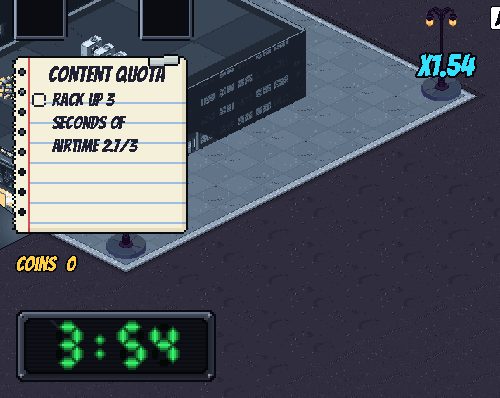
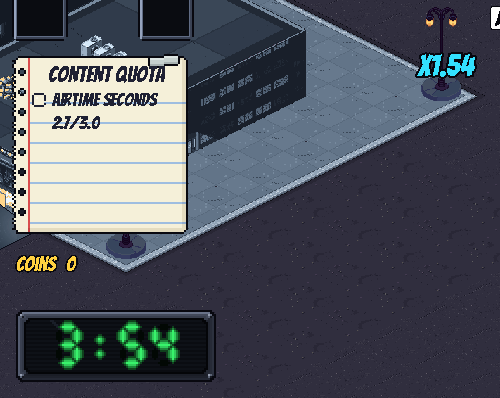
T-565: use T-564's texts for the running totals; GIF re-recorded
Claude-Session: https://claude.ai/code/session_01N2d996YFpSovFyvGmo19CZ

Changed region(s): [[0.09, 0.2111, 0.33, 0.392]]

diff --git a/docs/game-loop-architecture.md b/docs/game-loop-architecture.md
@@ -230,7 +230,7 @@ The run keeps its missions and the car's driving power-ups (Decisions, "Mission 
 - **One mission at a time:** every goal of the current mission counts at once; when all are done the mission is completed and the next one is current.
 - **What counts:** the car's tricks as the combo gets them (alt drifts, 360s, air 180s and 360s, thread the needle), every landing's airtime added up (also a hop too short to raise the combo), and, for the drift goal, **one unbroken drift**: it is ticked off the moment the drift reaches its seconds, and a drift that ends, by letting go or hitting something, starts over from 0. How tricks pay in the combo and likes does not change.
 - **Signals** for the HUD page and the gift overlay: a goal's progress (done out of total), a goal completed, a mission completed, and a mission started.
-- **Running totals (T-565; Decisions, "Total-time mission goals show their running total"):** a seconds goal that adds time up (the airtime: each landing adds its seconds) sends its total with each progress signal, and the notebook shows it against the goal ("1.4/3", one decimal, cut down so it never reads its goal early; HUD and menus, Content, "Running totals in the notebook"). The landing's name box falls first and the total changes when it lands (T-563). The unbroken drift goal is unchanged: no total, it starts over when a drift ends. Time can also be added a little at a time with no name box (`RunMissions.add_seconds`, used by the tutorial's drift slide); no run goal uses it yet.
+- **Running totals (T-565; Decisions, "Total-time mission goals show their running total"):** a seconds goal that adds time up (the airtime: each landing adds its seconds) sends its total with each progress signal, and the notebook shows it against the goal ("1.4/3.0", one decimal, cut down so it never reads its goal early; HUD and menus, Content, "Running totals in the notebook"). The landing's name box falls first and the total changes when it lands (T-563). The unbroken drift goal is unchanged: no total, it starts over when a drift ends. Time can also be added a little at a time with no name box (`RunMissions.add_seconds`, used by the tutorial's drift slide); no run goal uses it yet.
 - **The car's driving power-ups:** the run keeps which power-ups the car owns and at which tier (0 = not owned); a gift gives a new one at tier 1 or the next tier of one owned, never past its last tier; a signal fires when they change; a new run clears them.
 - **The gift's pause (T-459):** a completed mission pauses the run for the driving power-up overlay, like the level-up's weapon choice, and taking a power-up resumes it. The two never show at once: whichever opens second waits for the first to close, and the run stays paused between them; a gift with nothing left to offer is skipped without a pause. The rules and the look: HUD and menus, Content, "Power-up overlay".
 - **Jump is offered first (T-554):** `PowerUpOffers` counts the gifts that open in a run (`gifts_opened`, reset at every run start; a skipped gift doesn't count). While fewer than 2 have opened and the car doesn't own Jump, Jump is always one of the gift's 2 choices (`FIRST_OFFER_ID`, `FIRST_OFFER_GIFTS`), the other drawn at random from the usual pool. If Jump was taken on the first gift, the second follows the usual rules; from the third gift on, all rules are usual. The slot caps still apply: with 3 power-ups owned (none Jump) Jump is not in the pool, so it is not offered.
@@ -241,7 +241,7 @@ The run keeps its missions and the car's driving power-ups (Decisions, "Mission 
 The engine of the tutorial's practice windows (HUD and menus, Decisions, "Interactive tutorial slides"; how to use it: [game/docs/game-loop/practice-session.md](../game/docs/game-loop/practice-session.md)). Each trick slide (T-562) embeds one in its window. It is a small live run with one goal, not a run: it is never part of the screen flow below and never ends.
 
 - **What is in it:** the practice playground (Level design, Decisions, "The practice playground", T-560's level, on its grid ground), the real car with its real driving, combo, trick popups, drift marks and smoke, and the real mission notebook inside the window. **Nothing else:** no enemies, kaiju, clock, damage, gift packs, weapons, HUD or sounds.
-- **One trick, 3 times; the drift, 3 seconds:** the slide sets it to the drift, the alt drift, air spins or the grind. The notebook shows one goal, the trick 3 times ("x/3"), and the count. **The drift slide (T-565, HUD and menus, Decisions, "The drift slide counts drift seconds")** counts time instead: every moment the car drifts adds to one total over all its drifts (also drifts too short to pay), the notebook shows the total live with one decimal ("1.4/3"), and the goal is done at **3 seconds in total**; no trick counts there, LONG DRIFT! included. For the other slides a trick counts when it pays in the combo, the moment its popup shows: the alt drift ALT DRIFT!, air spins AIR 180! or AIR 360! (one landing counts once, also a 540 that pays both), the grind GRIND!. Nothing else counts. On the third (the drift: at 3 s) the slide is told, and shows its success message over the window; the count then stays at 3 (the drift's total at 3 s) and the player can keep driving (proposals).
+- **One trick, 3 times; the drift, 3 seconds:** the slide sets it to the drift, the alt drift, air spins or the grind. The notebook shows one goal, the trick 3 times ("x/3"), and the count. **The drift slide (T-565, HUD and menus, Decisions, "The drift slide counts drift seconds")** counts time instead: every moment the car drifts adds to one total over all its drifts (also drifts too short to pay), the notebook shows the total live with one decimal ("1.4/3.0"), and the goal is done at **3 seconds in total**; no trick counts there, LONG DRIFT! included. For the other slides a trick counts when it pays in the combo, the moment its popup shows: the alt drift ALT DRIFT!, air spins AIR 180! or AIR 360! (one landing counts once, also a 540 that pays both), the grind GRIND!. Nothing else counts. On the third (the drift: at 3 s) the slide is told, and shows its success message over the window; the count then stays at 3 (the drift's total at 3 s) and the player can keep driving (proposals).
 - **The grind's Jump gift:** the grind practice starts by offering the real power-up gift overlay with one card, Jump; taking it gives the car Jump. The practice waits behind it.
 - **Start points and resets:** the car starts on the playground's start point for its trick (one per trick slide, T-560). It goes back there when it leaves the playground, or when the player presses **R** (a proposal); the count stays.
 - **Keys and pausing:** the car reads the keyboard only while its window has focus; without focus it coasts as with no key held. The practice runs only while its slide shows it, and pauses only itself, never the game around it, so the slide's arrows and buttons keep working (also while the Jump gift is open).

diff --git a/docs/hud-and-menus.md b/docs/hud-and-menus.md
@@ -146,7 +146,7 @@ The first piece of the HUD (task T-090) is the run timer. It shows the time left
 
 **A trick falls into the notebook (task T-563; Decisions, "A trick falls into the notebook").** When a trick counts toward a goal of the current mission (`RunMissions.trick_counted`, sent just before that goal's progress), a small paper box with the trick's popup name ("ALT DRIFT!", "AIR 360!", "GRIND!"; the popup texts of `TrickPopups.TEXTS`, no new text) drops from above the page's top onto that goal's line, squashes, and splashes (a fan of seven blue droplets); the count, the tick and the next mission appear only when the box lands. A trick that counts toward no goal plays nothing. Drawn in code in the notebook's pixel look, no PixelLab art; the same page serves the tutorial's practice windows. Proposals for the playtest: the fall takes 0.32 s (it speeds up as it falls), the splash 0.28 s, the squash 0.07 s; quick tricks queue, a new box starting at least 0.14 s after the last one so none sits on another and each count arrives in order; at most four boxes wait, a trick in a bigger burst only updates the count. A mission completed by a trick shows its last box before the next page replaces it. How it is built: `MissionPage` (`game/scripts/hud/mission_page.gd`, `advance`, `finish_falls`), recorded with `game/tools/record_notebook_fall_gif.sh`. Recording: `art-archive/T-563/screenshots/notebook_fall.gif`.
 
-**Running totals in the notebook (task T-565; Decisions, "The drift slide counts drift seconds"; Game loop architecture, Decisions, "Total-time mission goals show their running total").** A goal that adds time up shows its total so far against its goal, like a quantity goal's count: in the run the airtime goal (each landing adds its seconds), in the tutorial the drift slide's 3 seconds of drifting in total. The seconds show with **one decimal, cut down** (2.96 s reads 2.9, so the line never shows its goal before the goal is done), against the goal's own number ("1.4/3"); at the goal the line is ticked and crossed off as usual. The unbroken drift goal ("Hold one drift for ...") keeps its line with no count. The line is T-564's text (`missions.goals_total.<trick>` in `screen_texts.json`, and the drift slide's seconds line in `tutorial_text.json`; until those are in, the goal's usual line shows, and the drift slide's "Drifts {done}/{total}" line with the seconds in it). **The falling name box with time goals** (proposals for the playtest): a trick that adds a lump of seconds drops its box as before (a landing: HANG TIME!), and the total changes when the box lands; time added a little at a time, the drift slide's drifting every frame, drops **no box**, and the total grows live while the car drifts. How it is built: `MissionPage.goal_template`, `fill` and `format_seconds`, `RunMissions.add_seconds` and `is_running_total`. Recording: `art-archive/T-565/screenshots/running_totals.gif` (`game/tools/record_running_total_gif.sh`).
+**Running totals in the notebook (task T-565; Decisions, "The drift slide counts drift seconds"; Game loop architecture, Decisions, "Total-time mission goals show their running total").** A goal that adds time up shows its total so far against its goal, like a quantity goal's count: in the run the airtime goal (each landing adds its seconds), in the tutorial the drift slide's 3 seconds of drifting in total. The seconds show with **one decimal, cut down** (2.96 s reads 2.9, so the line never shows its goal before the goal is done), against the goal, also with one decimal ("1.4/3.0"); at the goal the line is ticked and crossed off as usual. The unbroken drift goal ("Hold one drift for ...") keeps its line with no count. The lines are T-564's texts: in the run `missions.total_seconds` with the goal's `{name}` from `missions.total_seconds_names.<trick>` ("Airtime seconds 2.7/3.0"; a seconds goal without a name there keeps its usual line), on the drift slide `tutorial.goal.drift` ("Drift seconds 1.5/3.0"). **The falling name box with time goals** (proposals for the playtest): a trick that adds a lump of seconds drops its box as before (a landing: HANG TIME!), and the total changes when the box lands; time added a little at a time, the drift slide's drifting every frame, drops **no box**, and the total grows live while the car drifts. How it is built: `MissionPage.goal_template`, `fill` and `format_seconds`, `RunMissions.add_seconds` and `is_running_total`. Recording: `art-archive/T-565/screenshots/running_totals.gif` (`game/tools/record_running_total_gif.sh`).
 
 **The kaiju's health bar (task T-050, decision of 2026-10-15 below):** a bar on top of the kaiju in the world, following it. It is hidden until the kaiju appears, shows its health (it follows the run's kaiju health signal) and disappears when the kaiju dies or a new run starts. It is as wide as the kaiju's drawing (the width comes from the kaiju's sprite, so the final art keeps it fitting) and sits just above its head. It is a neon purple fill on a white background with a black outline (stepped pixel corners, as in the combo popups) and thin black dividers at every 10% of its health; hard pixel edges, drawn in code, no text and no red. It always draws above every building, as the trick popups do. How it is built is in `game/docs/enemies/kaiju.md`, "The kaiju's health bar". The arrow to the nearest challenge is not in the MVP (T-098). The HUD stays clear of the trick popups (near the car) and the pause strip (below the timer); while paused, the strip's dark band runs across the whole width over the lower part of the health bar.
 

diff --git a/tasks/T-565-drift-seconds-running-totals.md b/tasks/T-565-drift-seconds-running-totals.md
@@ -83,3 +83,5 @@ Tests: the new game/tests/unit/hud/test_mission_page_running_total.gd (8 tests: 
 GIF: art-archive/T-565/screenshots/running_totals.gif (fixture tests/fixtures/running_total_demo.tscn, recorder game/tools/record_running_total_gif.sh). Part 1: the real car on the drift slide drifts, straightens, drifts again; the line goes 0.5, 1.5, 2.4 and stops at 3.0/3, ticked and crossed off. Part 2: a run with an airtime 3 s mission; three landings (0.9, 1.3, 0.5) drop HANG TIME! boxes and the line goes 0.9, 2.2, 2.7/3. Since T-564 is not in yet, part 2 uses a fixture-only stand-in line (the usual airtime line with {done}/{total} after it). Stills: drift_slide_3s_done.png, run_airtime_total.png. practice_session_demo.gd now uses add_drift_seconds.
 
 Docs: docs/hud-and-menus.md (Content, The HUD: new paragraph 'Running totals in the notebook'; The interactive slides: the drift's 3 s), docs/game-loop-architecture.md (Content, Missions in the run: Running totals; The practice session: the drift counts 3 s), game/docs/game-loop/practice-session.md, game/docs/game-loop/the-run.md.
+
+Update after T-564 was merged (2026-11-07): the seams now use T-564's keys. PracticeSession.DRIFT_SECONDS_TEXT_KEYS = tutorial.goal.drift (T-564 rewrote it in place: 'Drift seconds {done}/{total}'). MissionPage.TOTAL_GOALS_KEY = total_seconds (the one template '{name} seconds {done}/{total}'). New MissionPage.TOTAL_NAMES_KEY = total_seconds_names, which gives the {name} per trick (airtime: 'Airtime'); a seconds goal without a name keeps its usual missions.goals line. For a running total, {total} now shows one decimal too, as T-564's comments ask ('Airtime seconds 2.7/3.0', 'Drift seconds 3.0/3.0'). The fixture's stand-in line is gone. Tests for the changed code: test_mission_page_running_total 9/9 (now checks the real total_seconds line), test_practice_session 28/28, test_tutorial* 57/57, test_hud_mission_page 11/11, every mission* test passes (56). game/tools/test_text_inventory.py: 8 passed. The inventory finds no code text in mission_page.gd, practice_session.gd or missions.gd. GIF re-recorded with the real texts: art-archive/T-565/screenshots/running_totals.gif. The drift slide goes 1.5, 2.1, then 3.0/3.0, ticked; the run's airtime goes 0.9, 2.2, then 2.7/3.0. Stills updated: drift_slide_3s_done.png, run_airtime_total.png. Docs updated: hud-and-menus.md, game-loop-architecture.md, game/docs/game-loop/practice-session.md and the-run.md. A hook refused an 'rm -rf' of my own scratchpad frames folder (it guards tickets); I didn't retry it and recorded to a new folder instead.

diff --git a/game/docs/game-loop/the-run.md b/game/docs/game-loop/the-run.md
@@ -187,7 +187,7 @@ Indices are 0-based (mission_index 0 is mission 1; goal_index 0 is its first goa
 **What feeds it** (only while the run is going; `RunState` forwards, how tricks pay is unchanged):
 
 - `add_trick(trick_id, seconds)` → `missions.on_trick()`: a "count" goal for that trick adds 1; the drift's "seconds" goal (`extended_drift`) takes the paid drift's whole length.
-- `add_airtime_trick(seconds)` → `missions.on_airtime()`: every landing, also one too short to pay in the combo; an `airtime` "seconds" goal adds the seconds up ("3 seconds of airtime in total"). Such a goal is a running total (`RunMissions.is_running_total(trick, kind)`: kind "seconds", not `extended_drift`; T-565): the notebook's line uses `missions.<MissionPage.TOTAL_GOALS_KEY>.<trick>` from `screen_texts.json` (`goals_total`, T-564's texts; the seam falls back to `missions.goals.<trick>` while it is missing) and fills `{done}` with the seconds so far, one decimal, cut down. `RunMissions.add_seconds(trick, seconds)` adds time to such a goal without `trick_counted` (no falling box).
+- `add_airtime_trick(seconds)` → `missions.on_airtime()`: every landing, also one too short to pay in the combo; an `airtime` "seconds" goal adds the seconds up ("3 seconds of airtime in total"). Such a goal is a running total (`RunMissions.is_running_total(trick, kind)`: kind "seconds", not `extended_drift`; T-565): the notebook's line is T-564's `missions.total_seconds` (`MissionPage.TOTAL_GOALS_KEY`) from `screen_texts.json` with `{name}` from `missions.total_seconds_names.<trick>` (`TOTAL_NAMES_KEY`; a trick without a name keeps `missions.goals.<trick>`), `{done}` the seconds so far and `{total}` the goal, both one decimal, `{done}` cut down. `RunMissions.add_seconds(trick, seconds)` adds time to such a goal without `trick_counted` (no falling box).
 - `add_needle_trick()` → `on_trick("thread_the_needle")`.
 - `drift_step(drifting, delta)` → `missions.on_drift_step()`: the **continuous drift** goal follows the unbroken drift in progress, so it is ticked off the moment the drift reaches its seconds; a step without drifting ends the drift and the goal's progress goes back to 0.
 - `collision()` (a wall, building, map edge, boulder, or damage) and the wreck → `missions.on_crash()`: the drift ends for the goal and starts over, even if the car is still sliding sideways. The crash's paid drift (T-315) reaches `on_trick()` first, so a crash at 4.2 s still counts as a 4.2 s drift.

diff --git a/game/docs/game-loop/practice-session.md b/game/docs/game-loop/practice-session.md
@@ -38,7 +38,7 @@ session.pause()                  # when the slide is left
 ## The level and the texts (T-560 and T-559, both wired)
 
 - **The playground (T-560, wired):** `PLAYGROUND_PATH` is `data/level/practice_playground.json` ([../level/practice-playground.md](../level/practice-playground.md)); each trick starts on its start point of the same id. The stand-in this ticket used before (`practice_stand_in.json`) is removed.
-- **The drift's seconds line (T-564, a seam):** `goal_template("drift")` reads `DRIFT_SECONDS_TEXT_KEYS` (`tutorial.goal.drift_seconds`) first; while that key is missing it falls back to T-559's `tutorial.goal.drift`. If T-564's key differs, change that one constant.
+- **The drift's seconds line (T-564):** `goal_template("drift")` reads `DRIFT_SECONDS_TEXT_KEYS`, `tutorial.goal.drift`, which T-564 rewrote in place ("Drift seconds {done}/{total}"); both numbers show with one decimal.
 - **The goal lines (T-559, wired):** `GOAL_TEXT_KEYS` reads each goal line from `data/tutorial_text.json`, `tutorial.goal.drift`, `.altdrift`, `.airspin` and `.grind` (T-559's keys), each a template with `{done}` and `{total}`, word for word. No player text is in the code: a missing key logs an error and gives an empty line.
 - **The falling box (T-563)** uses the same notebook: the goal's trick id is the car's own trick id (`extended_drift`, `alternate_drift`, `rail_grind`), except air spins, whose goal id is `air_spin` (two tricks); `trick_counted` gives the actual one.
 
